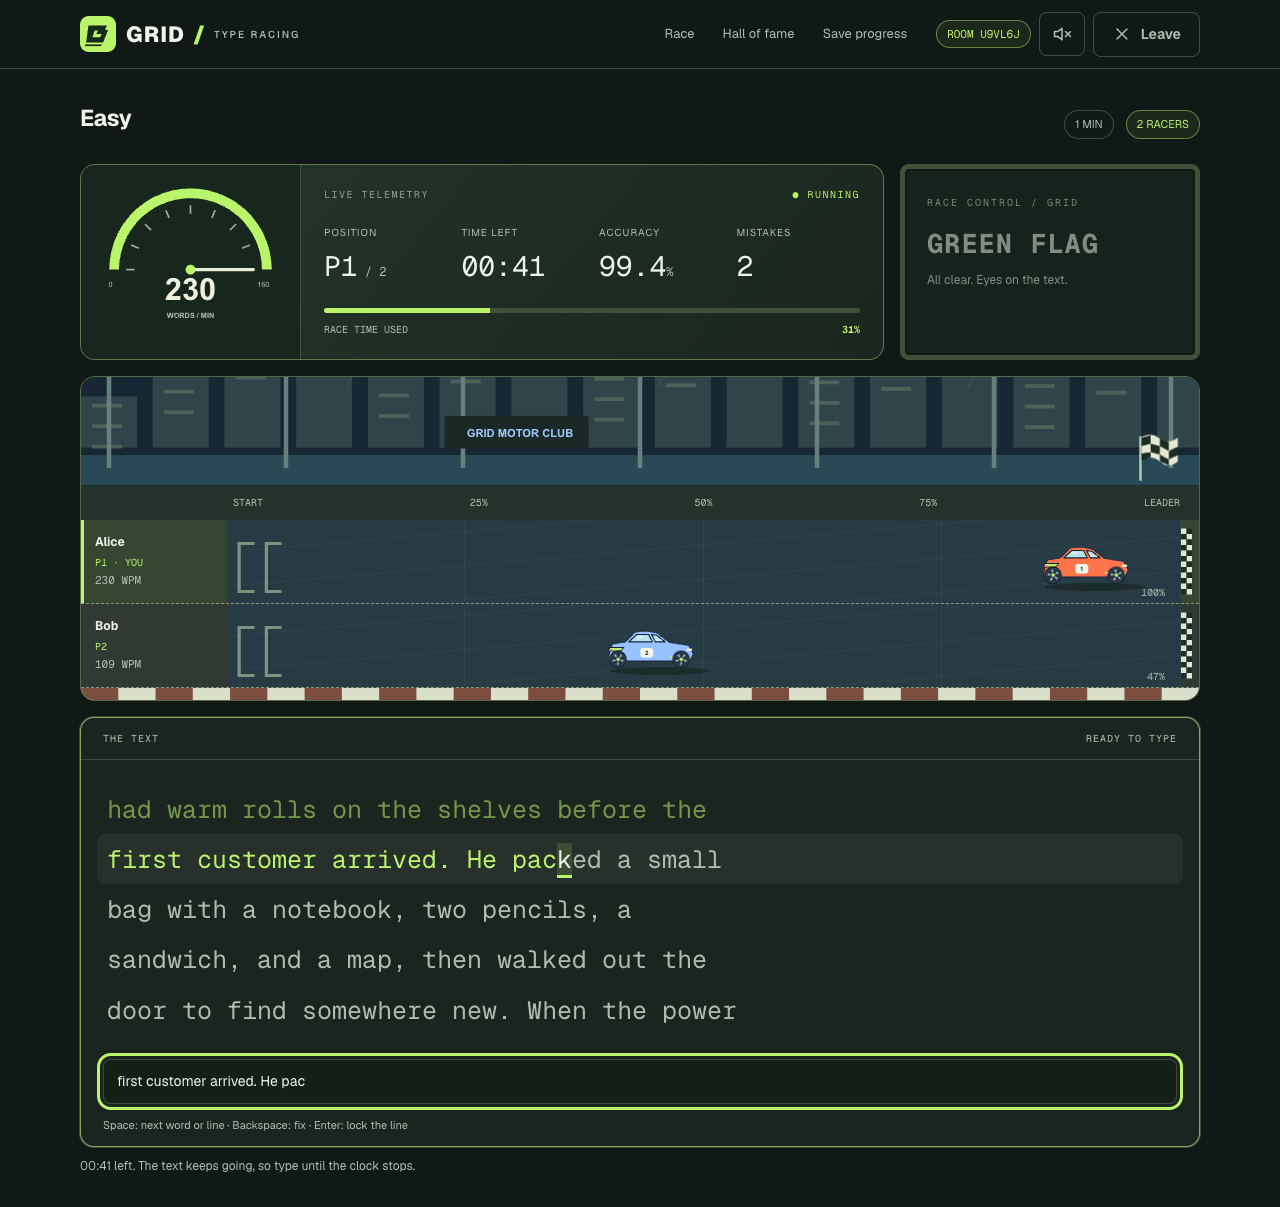
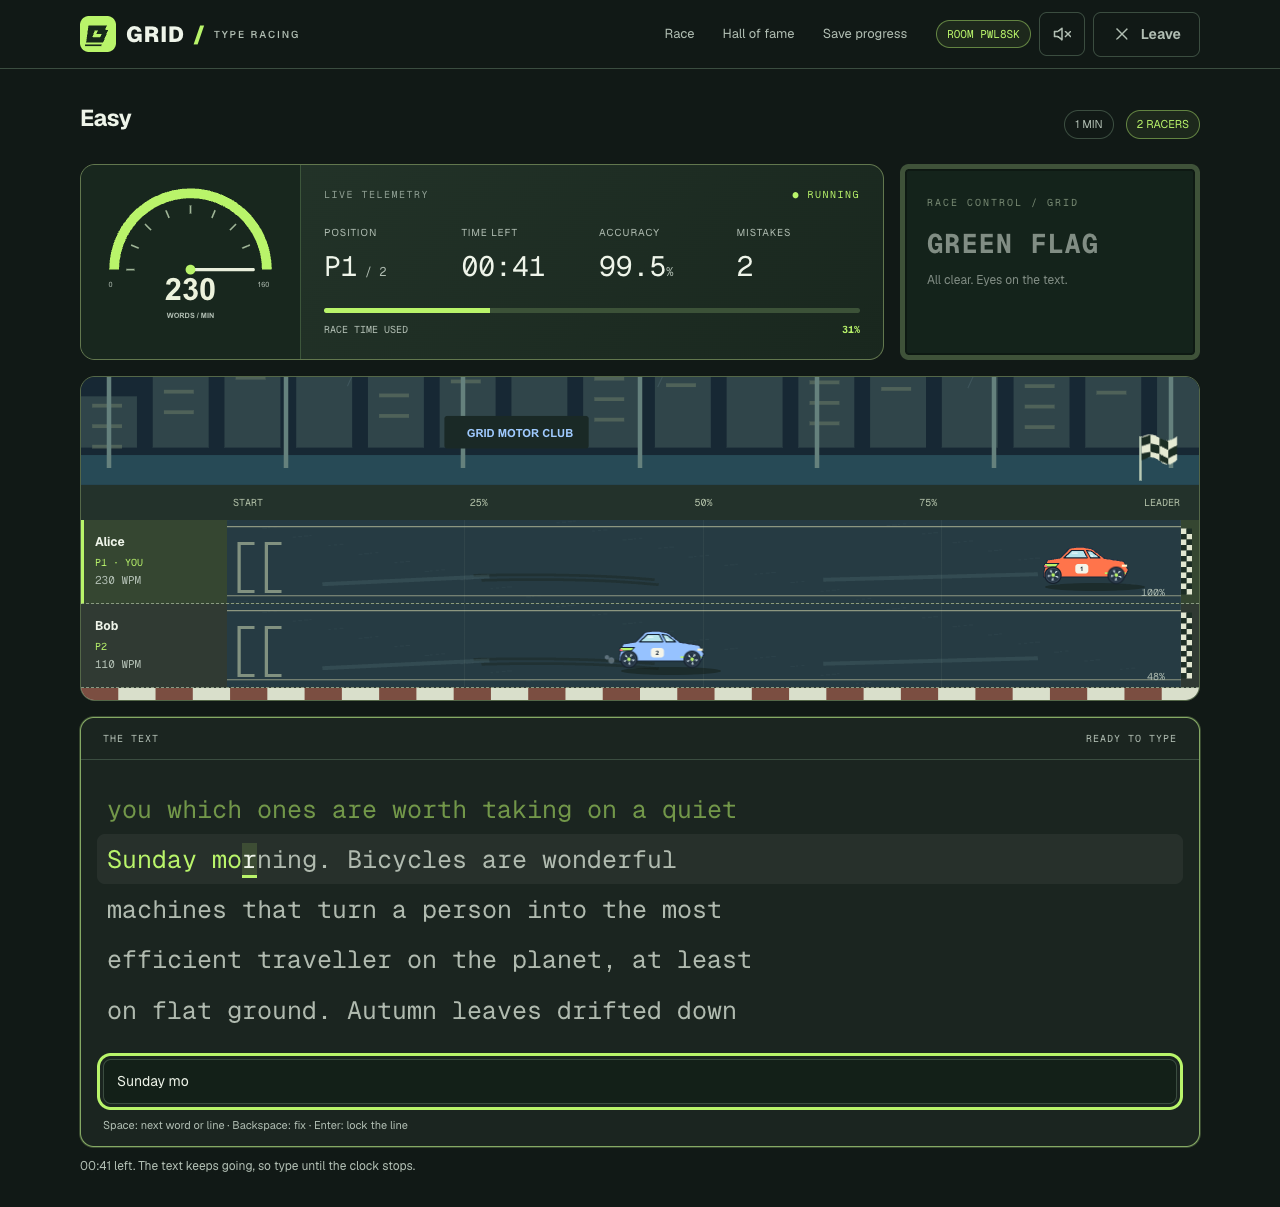
feat: race lanes use the circuit kit's road surface
The 17-circuit roadSurface artwork (asphalt grain, edge lines, tyre marks,
wet sheen for Midnight Rain) now sits under each lane, stretched to fit.
Its dashed bottom line is dropped because the lane separator already draws it.

diff --git a/client/src/components/Track.tsx b/client/src/components/Track.tsx
@@ -9,6 +9,7 @@ import {
   destinationSceneSvg,
   finishStripeSvg,
   kerbSvg,
+  roadSurfaceSvg,
   startGridSvg,
   type DestinationId,
 } from '../art/worldArt';
@@ -51,7 +52,17 @@ const ART = {
   grid: decorative(startGridSvg()),
   stripe: decorative(finishStripeSvg()),
   flag: decorative(circuitFlagSvg()),
+  // 17-circuit asphalt (grain, edge lines, tyre marks), stretched to each lane.
+  road: laneRoad(false),
+  roadWet: laneRoad(true),
 };
+
+/** The kit's road minus its dashed bottom line: the lane's own dashed separator already draws it. */
+function laneRoad(wet: boolean) {
+  return decorative(roadSurfaceSvg({ wet }))
+    .replace('<svg ', '<svg preserveAspectRatio="none" ')
+    .replace('<path d="M0 149H1200" stroke="#d2d9ba" stroke-width="2" stroke-dasharray="20 18"/>', '');
+}
 
 /**
  * 17-circuit: destination scenery, barrier, distance ruler and up to four
@@ -117,6 +128,9 @@ function Lane({ car, started, wet }: { car: TrackCar; started: boolean; wet: boo
         <small>{Math.round(car.wpm)} WPM</small>
       </div>
       <div className={`w-road ${wet ? 'wet' : ''}`} aria-label={`${car.name}, position ${car.rank}, ${pct} percent`}>
+        <div className="w-road-surface">
+          <TrustedSvg markup={wet ? ART.roadWet : ART.road} />
+        </div>
         <div className="w-grid-paint">
           <TrustedSvg markup={ART.grid} />
         </div>

diff --git a/client/src/index.css b/client/src/index.css
@@ -796,3 +796,24 @@ html {
     width: 40px;
   }
 }
+
+/* Circuit lanes: the kit's asphalt artwork under the grid paint, distance lines and car. */
+.w-road-surface {
+  position: absolute;
+  inset: 0;
+  pointer-events: none;
+}
+/* TrustedSvg wraps the svg (display: contents), so match it as a descendant. */
+.w-road-surface svg {
+  display: block;
+  width: 100%;
+  height: 100%;
+}
+
+/* System states are whole pages, so their title is the h1 (kit styles it as h2). */
+.g-system-state h1 {
+  font-size: 30px;
+  letter-spacing: -1px;
+  line-height: 1.15;
+  margin: 14px 0;
+}
